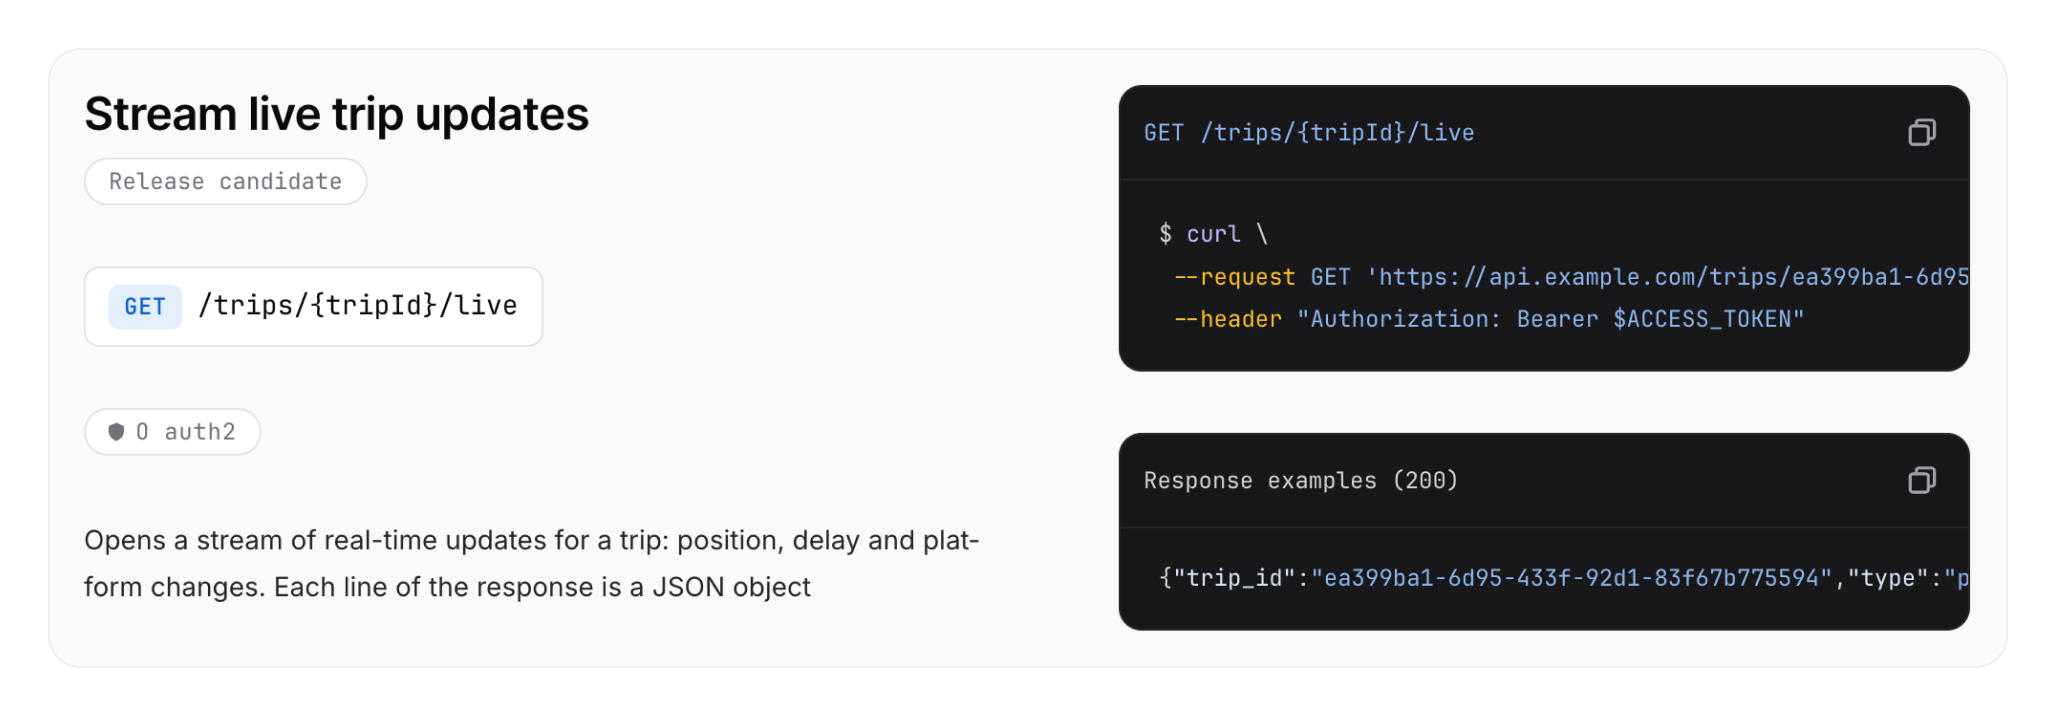
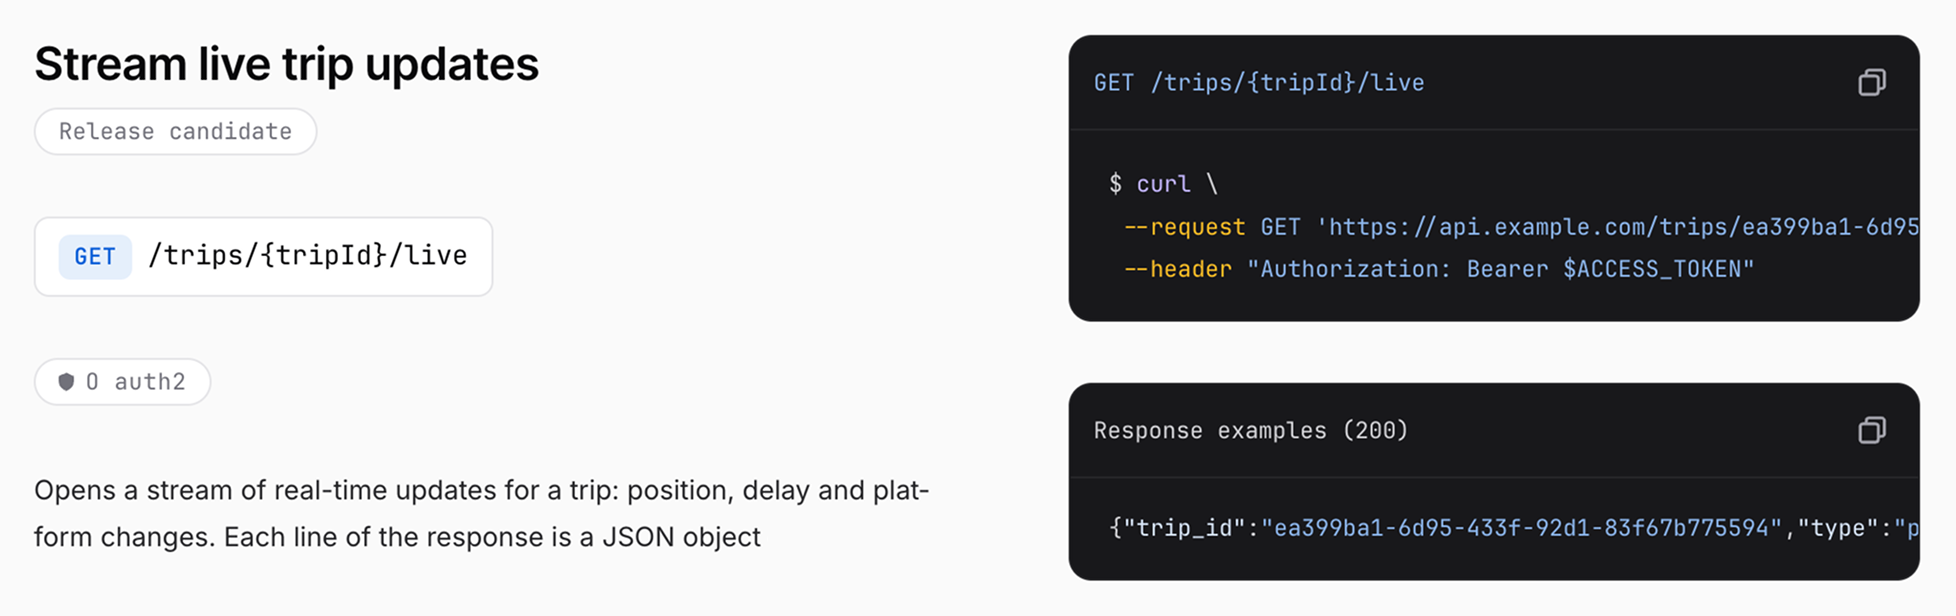
images fixes + wrong alt

diff --git a/src/_product-updates/2026-09-23-openapi-3-2-full-support.md b/src/_product-updates/2026-09-23-openapi-3-2-full-support.md
@@ -4,7 +4,7 @@ tags: [New]
 image: /docs/images/changelog/openapi-3-2-full-support.png
 ---
 
-![MCP server logs.png](/docs/images/changelog/openapi-3-2-full-support.png)
+![OpenAPI 3.2 full support.png](/docs/images/changelog/openapi-3-2-full-support.png)
 
 We released a partial OpenAPI 3.2 support in late 2025. That support is now complete: deploy your OpenAPI 3.2 documents as usual and get the best of its new capabilities.
 
